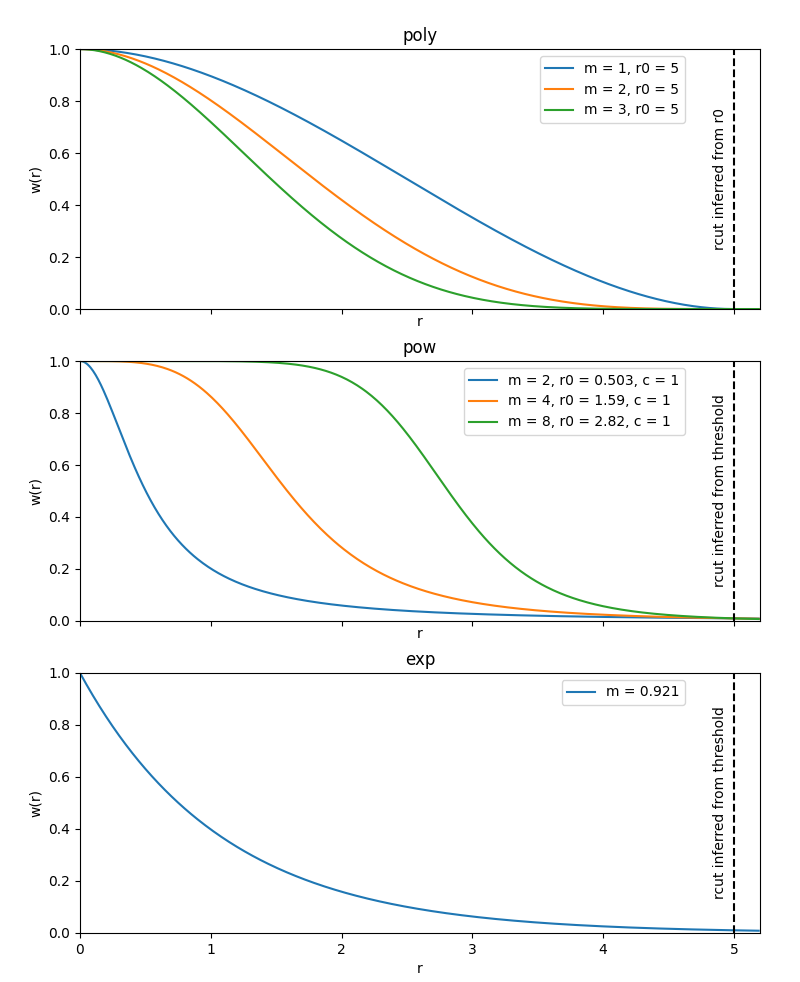
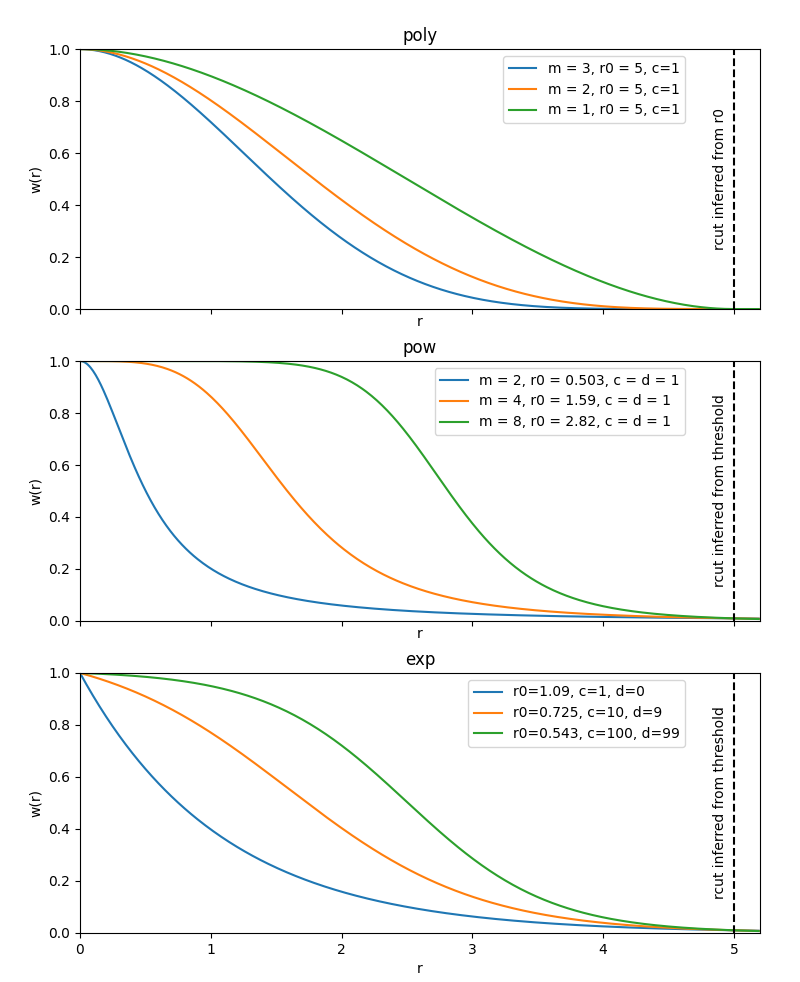
Updated weighting functions to be more general.

diff --git a/dscribe/descriptors/soap.py b/dscribe/descriptors/soap.py
@@ -91,43 +91,46 @@ class SOAP(Descriptor):
                 * ``"function"``: The weighting function to use. The
                   following are currently supported:
 
-                    * ``"poly"``: :math:`w(r) = \left\{ \\begin{array}{ll} (1 + 2 (\\frac{r}{r_0})^{3} -3 (\\frac{r}{r_0})^{2}))^{m}, \\ \\text{for}\\ r \\leq r_0\\\\ 0, \\ \\text{for}\\ r > r_0 \end{array}\\right.`
+                    * ``"poly"``: :math:`w(r) = \left\{ \\begin{array}{ll} c(1 + 2 (\\frac{r}{r_0})^{3} -3 (\\frac{r}{r_0})^{2}))^{m}, \\ \\text{for}\\ r \\leq r_0\\\\ 0, \\ \\text{for}\\ r > r_0 \end{array}\\right.`
 
                       This function goes exactly to zero at :math:`r=r_0`. If
                       you do not explicitly provide ``rcut`` in the
                       constructor, ``rcut`` is automatically set to ``r0``.
-                      You can provide the parameters ``m`` and ``r0`` as
+                      You can provide the parameters ``c``, ``m`` and ``r0`` as
                       additional dictionary items.
 
                       For reference see:
-                          "Caro, M. (2019). Optimizing many-body atomic descriptors for enhanced
-                          computational performance of machine learning based interatomic potentials.
-                          Phys. Rev. B, 100, 024112."
+                          "Caro, M. (2019). Optimizing many-body atomic
+                          descriptors for enhanced computational performance of
+                          machine learning based interatomic potentials.  Phys.
+                          Rev. B, 100, 024112."
 
-                    * ``"pow"``: :math:`w(r) = \\frac{c}{c + (\\frac{r}{r_0})^{m}}`
+                    * ``"pow"``: :math:`w(r) = \\frac{c}{d + (\\frac{r}{r_0})^{m}}`
 
                       If you do not explicitly provide ``rcut`` in the
                       constructor, ``rcut`` will be set as the value at which
                       this function decays to the value given by the
                       ``threshold`` entry in the weighting dictionary (defaults
-                      to 1e-2), You can provide the parameters ``m`` and
-                      ``threshold`` as additional dictionary items.
+                      to 1e-2), You can provide the parameters ``c``, ``d``,
+                      ``m``, ``r0`` and ``threshold`` as additional dictionary
+                      items.
 
                       For reference see:
                           "Willatt, M., Musil, F., & Ceriotti, M. (2018).
-                          Feature optimization for atomistic machine learning yields a data-driven
-                          construction of the periodic table of the elements.
-                          Phys. Chem. Chem. Phys., 20, 29661-29668.
+                          Feature optimization for atomistic machine learning
+                          yields a data-driven construction of the periodic
+                          table of the elements.  Phys. Chem. Chem. Phys., 20,
+                          29661-29668.
                           "
 
-                    * ``"exp"``: :math:`w(r) = e^{-m r}`
+                    * ``"exp"``: :math:`w(r) = \\frac{c}{d + e^{-r/r_0}}`
 
                       If you do not explicitly provide ``rcut`` in the
                       constructor, ``rcut`` will be set as the value at which
                       this function decays to the value given by the
                       ``threshold`` entry in the weighting dictionary (defaults
-                      to 1e-2), You can provide the parameters ``m`` and
-                      ``threshold`` as additional dictionary items.
+                      to 1e-2), You can provide the parameters ``c``, ``d``,
+                      ``r0`` and ``threshold`` as additional dictionary items.
 
                 * ``"w0"``: Custom floating point weight for the atom that is
                   directly on top of a requested center. Optional, will override
@@ -187,7 +190,7 @@ class SOAP(Descriptor):
         self._eta = 1 / (2 * sigma ** 2)
         self._sigma = sigma
 
-        supported_rbf = set(("gto", "polynomial"))
+        supported_rbf = {"gto", "polynomial"}
         if rbf not in supported_rbf:
             raise ValueError(
                 "Invalid radial basis function of type '{}' given. Please use "
@@ -207,28 +210,31 @@ class SOAP(Descriptor):
         if not (weighting or rcut):
             raise ValueError("Either weighting or rcut need to be defined")
         if weighting:
-            weighting_functions = ["poly", "pow", "exp"]
-            if weighting["function"] == "pow":
-                if weighting["r0"] < 0:
-                    raise ValueError("Define r0 > 0 in weighting.")
-                if weighting["c"] < 0:
-                    raise ValueError("Define c >= 0 in weighting.")
-                weighting["threshold"] = weighting.get("threshold", 1e-2)
-
-            elif weighting["function"] == "poly":
-                if weighting["r0"] < 0:
-                    raise ValueError("Define r0 > 0 in weighting.")
-                weighting["threshold"] = weighting.get("threshold", 1e-2)
-
-            elif weighting["function"] == "exp":
-                pass
-            else:
+            weighting_functions = {"poly", "pow", "exp"}
+            func = weighting.get("function")
+            if func not in weighting_functions:
                 raise ValueError(
                     "Weighting function not implemented. Please choose among "
-                    "one of the following {}".format(str(weighting_functions))
+                    "one of the following {}".format(weighting_functions)
                 )
-            if weighting["m"] < 0:
-                raise ValueError("Define m >= 0 in weighting.")
+            r0 = weighting.get("r0")
+            if r0 is None or r0 <= 0:
+                raise ValueError("Define r0 > 0 in weighting.")
+            c = weighting.get("c")
+            if c is None or c <= 0:
+                raise ValueError("Define c > 0 in weighting.")
+            if weighting["function"] == "pow":
+                d = weighting.get("d")
+                if d is None or d < 0:
+                    raise ValueError("Define d >= 0 in weighting.")
+                m = weighting.get("m")
+                if m is None or m < 0:
+                    raise ValueError("Define m >= 0 in weighting.")
+                weighting["threshold"] = weighting.get("threshold", 1e-2)
+            elif weighting["function"] == "exp":
+                if weighting["d"] < 0:
+                    raise ValueError("Define d >= 0 in weighting.")
+                weighting["threshold"] = weighting.get("threshold", 1e-2)
         else:
             weighting = {"m": 0, "c": 0, "r0": 1}  # default weighting: no decay
         if not rcut:
@@ -327,16 +333,19 @@ class SOAP(Descriptor):
             t = weighting["threshold"]
             m = weighting["m"]
             c = weighting["c"]
+            d = weighting["d"]
             r0 = weighting["r0"]
-            rcut = r0 * (c * (1 / t - 1)) ** (1 / m)
+            rcut = r0 * (c / t - d) ** (1 / m)
             return rcut
         elif weighting["function"] == "poly":
             r0 = weighting["r0"]
             return r0
         elif weighting["function"] == "exp":
             t = weighting["threshold"]
-            m = weighting["m"]
-            rcut = np.log(1 / t) / m
+            c = weighting["c"]
+            d = weighting["d"]
+            r0 = weighting["r0"]
+            rcut = r0 * np.log(c / t - d)
             return rcut
         else:
             return None

diff --git a/regtests/soap.py b/regtests/soap.py
@@ -128,6 +128,36 @@ class SoapTests(TestBaseClass, unittest.TestCase):
             )
             a.create(H2O)
 
+        # Invalid weighting
+        args = {
+            "rcut": 2,
+            "sigma": 1,
+            "nmax": 5,
+            "lmax": 5,
+            "species": ["H", "O"],
+        }
+        with self.assertRaises(ValueError):
+            args["weighting"] = {"function": "poly", "c": -1, "r0": 1}
+            SOAP(**args)
+        with self.assertRaises(ValueError):
+            args["weighting"] = {"function": "poly", "c": 1, "r0": 0}
+            SOAP(**args)
+        with self.assertRaises(ValueError):
+            args["weighting"] = {"function": "pow", "c": 0, "d": 1, "r0": 1, "m": 1}
+            SOAP(**args)
+        with self.assertRaises(ValueError):
+            args["weighting"] = {"function": "pow", "c": 1, "d": 1, "r0": 0, "m": 1}
+            SOAP(**args)
+        with self.assertRaises(ValueError):
+            args["weighting"] = {"function": "exp", "c": 0, "d": 1, "r0": 1}
+            SOAP(**args)
+        with self.assertRaises(ValueError):
+            args["weighting"] = {"function": "exp", "c": 1, "d": 1, "r0": 0}
+            SOAP(**args)
+        with self.assertRaises(ValueError):
+            args["weighting"] = {"function": "nope", "c": 1, "d": 1, "r0": 1}
+            SOAP(**args)
+
     def test_properties(self):
         """Used to test that changing the setup through properties works as
         intended.
@@ -208,7 +238,12 @@ class SoapTests(TestBaseClass, unittest.TestCase):
         function.
         """
         # poly
-        weighting = {"m": 1, "r0": 2, "function": "poly"}
+        weighting = {
+            "function": "poly",
+            "c": 2,
+            "m": 3,
+            "r0": 4,
+        }
         soap = SOAP(
             nmax=1,
             lmax=1,
@@ -224,6 +259,7 @@ class SoapTests(TestBaseClass, unittest.TestCase):
             "function": "pow",
             "threshold": 1e-3,
             "c": 1,
+            "d": 1,
             "m": 1,
             "r0": 1,
         }
@@ -239,12 +275,14 @@ class SoapTests(TestBaseClass, unittest.TestCase):
 
         # exp
         weighting = {
-            "m": 0.5,
+            "c": 2,
+            "d": 1,
+            "r0": 2,
             "function": "exp",
             "threshold": 1e-3,
         }
         soap = SOAP(species=[1, 8], nmax=1, lmax=1, sparse=True, weighting=weighting)
-        rcut = -np.log(weighting["threshold"]) / weighting["m"]
+        rcut = weighting["r0"] * np.log(weighting["c"]/weighting["threshold"] - weighting["d"])
         self.assertAlmostEqual(soap._rcut, rcut)
 
     def test_crossover(self):

diff --git a/docs/src/assets/soap_weighting_plot.py b/docs/src/assets/soap_weighting_plot.py
@@ -18,9 +18,10 @@ for setting in settings:
     m = setting[0]
     r0 = setting[1]
     c = setting[2]
+    d = c
     r = np.arange(rmin, rmax, 0.01)
-    polym = c / (c + (r / r0) ** m)
-    ax2.plot(r, polym, label="m = {}, r0 = {:.3}, c = {}".format(m, r0, c))
+    polym = c / (d + (r / r0) ** m)
+    ax2.plot(r, polym, label="m = {}, r0 = {:.3}, c = d = {}".format(m, r0, c))
 ax2.axvline(rcut, color='k', linestyle='--')
 ax2.text(
     rcut*0.99,
@@ -36,20 +37,21 @@ ax2.set_ylabel("w(r)")
 
 # Plot poly with different settings
 settings = [
-    [rcut, 1],
-    [rcut, 2],
     [rcut, 3],
+    [rcut, 2],
+    [rcut, 1],
 ]
 for setting in settings:
     r0 = setting[0]
     m = setting[1]
+    c = 1
     poly3m = []
     for ri in r:
         if ri < r0:
-            poly3m.append((1 + 2 * (ri / r0) ** 3 - 3 * (ri / r0) ** 2) ** m)
+            poly3m.append(c*(1 + 2 * (ri / r0) ** 3 - 3 * (ri / r0) ** 2) ** m)
         else:
             poly3m.append(0)
-    ax1.plot(r, poly3m, label="m = {}, r0 = {}".format(m, r0))
+    ax1.plot(r, poly3m, label="m = {}, r0 = {}, c={}".format(m, r0, c))
 ax1.axvline(rcut, color='k', linestyle='--')
 ax1.text(
     rcut*0.99,
@@ -65,13 +67,17 @@ ax1.set_ylabel("w(r)")
 
 # Plot exp with different settings
 settings = [
-    [-np.log(t)/rcut],
+    [rcut/np.log(1/t - 0), 1, 0],
+    [rcut/np.log(10/t - 9), 10, 9],
+    [rcut/np.log(100/t - 99), 100, 99],
 ]
 for setting in settings:
-    m = setting[0]
     r = np.arange(rmin, rmax, 0.01)
-    exp = np.exp(-m * r)
-    ax3.plot(r, exp, label="m = {:.3}".format(m))
+    r0 = setting[0]
+    c = setting[1]
+    d = setting[2]
+    exp = c/(d + np.exp(r/r0))
+    ax3.plot(r, exp, label="r0={:.3}, c={}, d={}".format(r0, c, d))
 ax3.axvline(rcut, color='k', linestyle='--')
 ax3.text(
     rcut*0.99,

diff --git a/docs/src/tutorials/descriptors/soap.rst b/docs/src/tutorials/descriptors/soap.rst
@@ -192,7 +192,9 @@ instances from these functions are plotted below.
    :alt: SOAP weighting
    :align: center
 
-   Examples of different weighting function setups.
+   Example instances of weighting functions defined on the interval [0, 1]. The
+   ``poly`` function decays exactly to zero at :math:`r=r_0`, the others
+   decay smoothly towards zero.
 
 When using a weighting function, you typically will also want to restrict
 ``rcut`` into a range that lies within the domain in which your weighting
